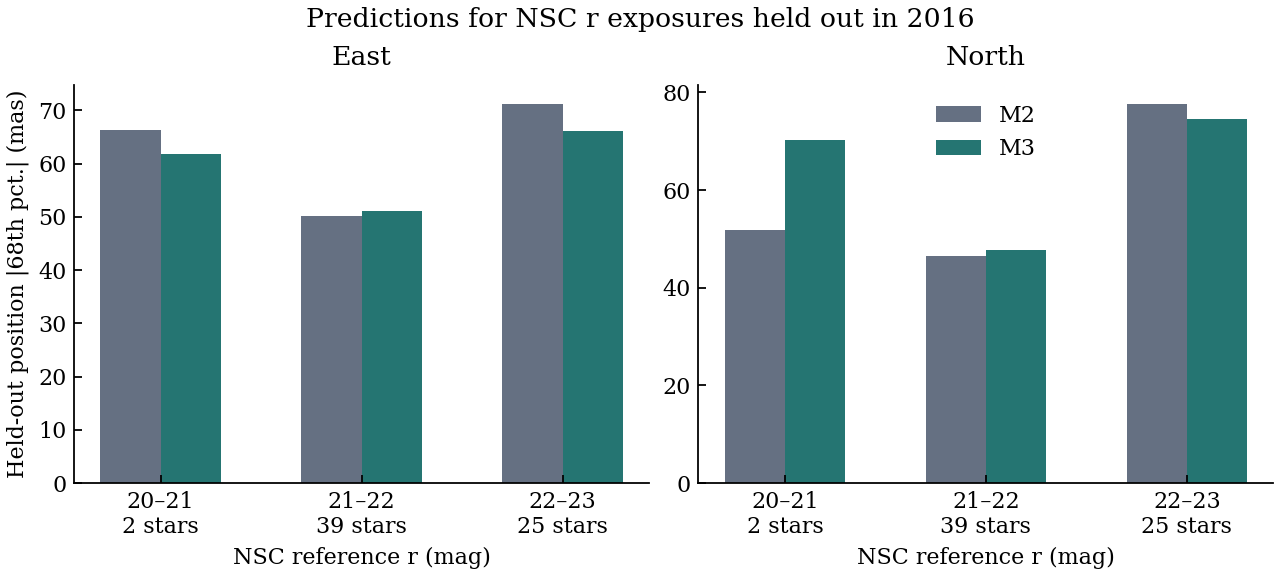
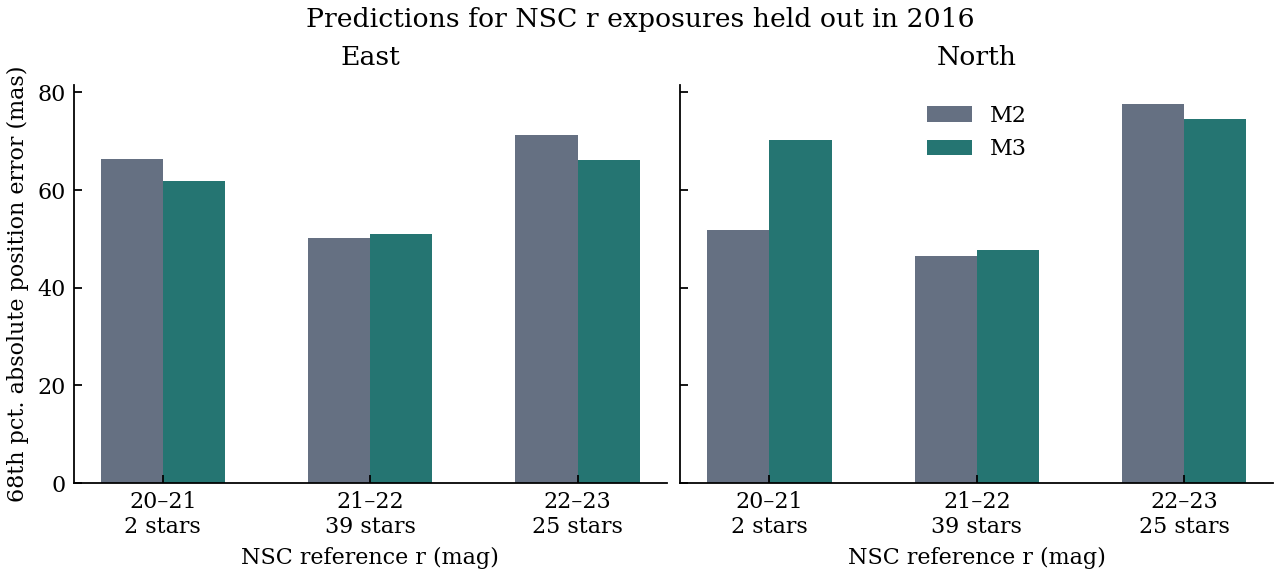
Record the blocked legacy cutout and verify range boundary checks

diff --git a/src/deep_pm/precision_v03_plots.py b/src/deep_pm/precision_v03_plots.py
@@ -52,7 +52,7 @@ def plot_dark(summary, output):
     for tag in bins:
         row = summary["coverage_by_r"][tag]
         labels.append(tag.replace("_to_", "–") + f"\n{row['matched_tracks']} stars")
-    fig, axes = plt.subplots(1, 2, figsize=(8, 3.6), layout="constrained")
+    fig, axes = plt.subplots(1, 2, figsize=(8, 3.6), sharey=True, layout="constrained")
     for axis, component, label in zip(axes, (0, 1), ("East", "North")):
         for i, method in enumerate(("M2", "M3")):
             rows = summary["residual_by_r_mas"]
@@ -63,7 +63,7 @@ def plot_dark(summary, output):
         axis.set_title(label)
         axis.set_xlabel("NSC reference r (mag)")
         axis.tick_params(direction="in")
-    axes[0].set_ylabel("Held-out position |68th pct.| (mas)")
+    axes[0].set_ylabel("68th pct. absolute position error (mas)")
     axes[1].legend(frameon=False)
     fig.suptitle("Predictions for NSC r exposures held out in 2016")
     fig.savefig(output, dpi=160)

diff --git a/tests/test_legacy_subset.py b/tests/test_legacy_subset.py
@@ -1,0 +1,20 @@
+import unittest
+
+import healpy as hp
+import numpy as np
+
+from deep_pm.legacy_subset import find_ring_boundary
+
+
+class RangeBoundaryTest(unittest.TestCase):
+    def test_ring_boundaries_are_verified(self):
+        pixels = np.repeat([2, 4, 16, 100], [5, 150, 1, 120])
+        rows = np.rec.fromarrays(hp.pix2ang(128, pixels, lonlat=True), names="RA,DEC")
+        for key in (0, 2, 4, 5, 16, 17, 100, 101):
+            self.assertEqual(find_ring_boundary(len(rows), key, lambda i, n: rows[i:i+n]),
+                             np.searchsorted(pixels, key))
+
+    def test_detected_ring_inversion_rejects_range(self):
+        rows = np.rec.fromarrays(hp.pix2ang(128, [20, 10], lonlat=True), names="RA,DEC")
+        with self.assertRaisesRegex(ValueError, "locally inconsistent"):
+            find_ring_boundary(len(rows), 15, lambda i, n: rows[i:i+n])

diff --git a/PLAN.md b/PLAN.md
@@ -19,5 +19,5 @@
 - 四区 214 颗亮源基线复现完成。M3 在赤道、北天和拥挤区有共同检测对照，Pal 5 未达到参考覆盖门槛。赤道、北天仍有轴未达到 0.5 mas/yr。
 - M4、M5 有独立对象与观测组检验。赤道北向散布下降，但偏差和跨巡天留出表现不足以采用。M3 为后续基线。
 - 暗端先用五个 NSC r 留出曝光及 6 个光谱 QSO。21–23 等的留出位置收益未超过对象重采样不确定度。需补独立暗星团成员、观测覆盖与竞争匹配审计。
-- Xiao2025 ScienceDB V3 已核验首部及实际来源标记。发表产品的正样本切片需完整通过边界检查；远程下载失败时，可在 Slurm 上向 `deep_pm.legacy_subset` 提供已验证的完整 FITS。三产品共同样本验收要求不变。
+- Xiao2025 ScienceDB V3 已核验首部及实际来源标记。赤道试取的 4 个像素均超时，发表产品切片仍需完整通过边界检查；远程下载失败时，可在 Slurm 上向 `deep_pm.legacy_subset` 提供已验证的完整 FITS。三产品共同样本验收要求不变。
 - 在第二个高参考密度测试区继续 A，优先核验按 frame/CCD 的残差、按观测夜共享误差与暗对象的对照覆盖。重新度量两发布产品和零点，达到本页目标才扩大目录。待 seeing、SNR、混叠或像面位置关联在独立场复现后再选图像实验曝光。

diff --git a/WORKLOG.md b/WORKLOG.md
@@ -4,6 +4,8 @@
 
 ### v0.3
 
+- 赤道 Xiao2025 范围切片 `61406739` 终态 FAILED，4/4 所需像素读取超时，未输出切片。完整 FITS 备用入口留在 `legacy_subset`。验证 `PYTHONPATH=src python3 -m unittest discover -s tests -q` 通过 49 项。公布 v0.3 首轮报告、两张图和回执化汇总。后续需 NERSC 可读副本或稳定官方切片服务。
+
 - NERSC `61405053`、`61406300` 完成四区基线和其他三场 M3。固定共同检测时赤道北向偏差 −4.66→−1.33 mas/yr，北天两轴约降至 0.5，拥挤区两轴低于 0.5，Pal 5 无可用校准组。保留各原始运行回执。
 - `61405493` 获取赤道 172 个 NSC 曝光、光谱 QSO 和 ScienceDB FITS 首部。`61405956` 色项阶段完成，独立星系跨巡天北向散布扩大，保留 M3；同一 Slurm 作业的旧范围探测失败。精简重试 `61406301` 成功读 4/9 字节区间，256 行中 DESI 202、Gaia 54。
 - `61406226`、`61406435` 完成 2016 暗源位置留出和官方 NSC 光谱 QSO 对照。21–23 等 64 条轨迹、163 个测试位置，按对象重采样无稳定绝对误差收益。6 个共同 QSO 的北向绝对误差分位从 M2 5.01 到 M3 1.78，官方 NSC 为 2.99 mas/yr。公开汇总只给极小 QSO 分箱的计数。
